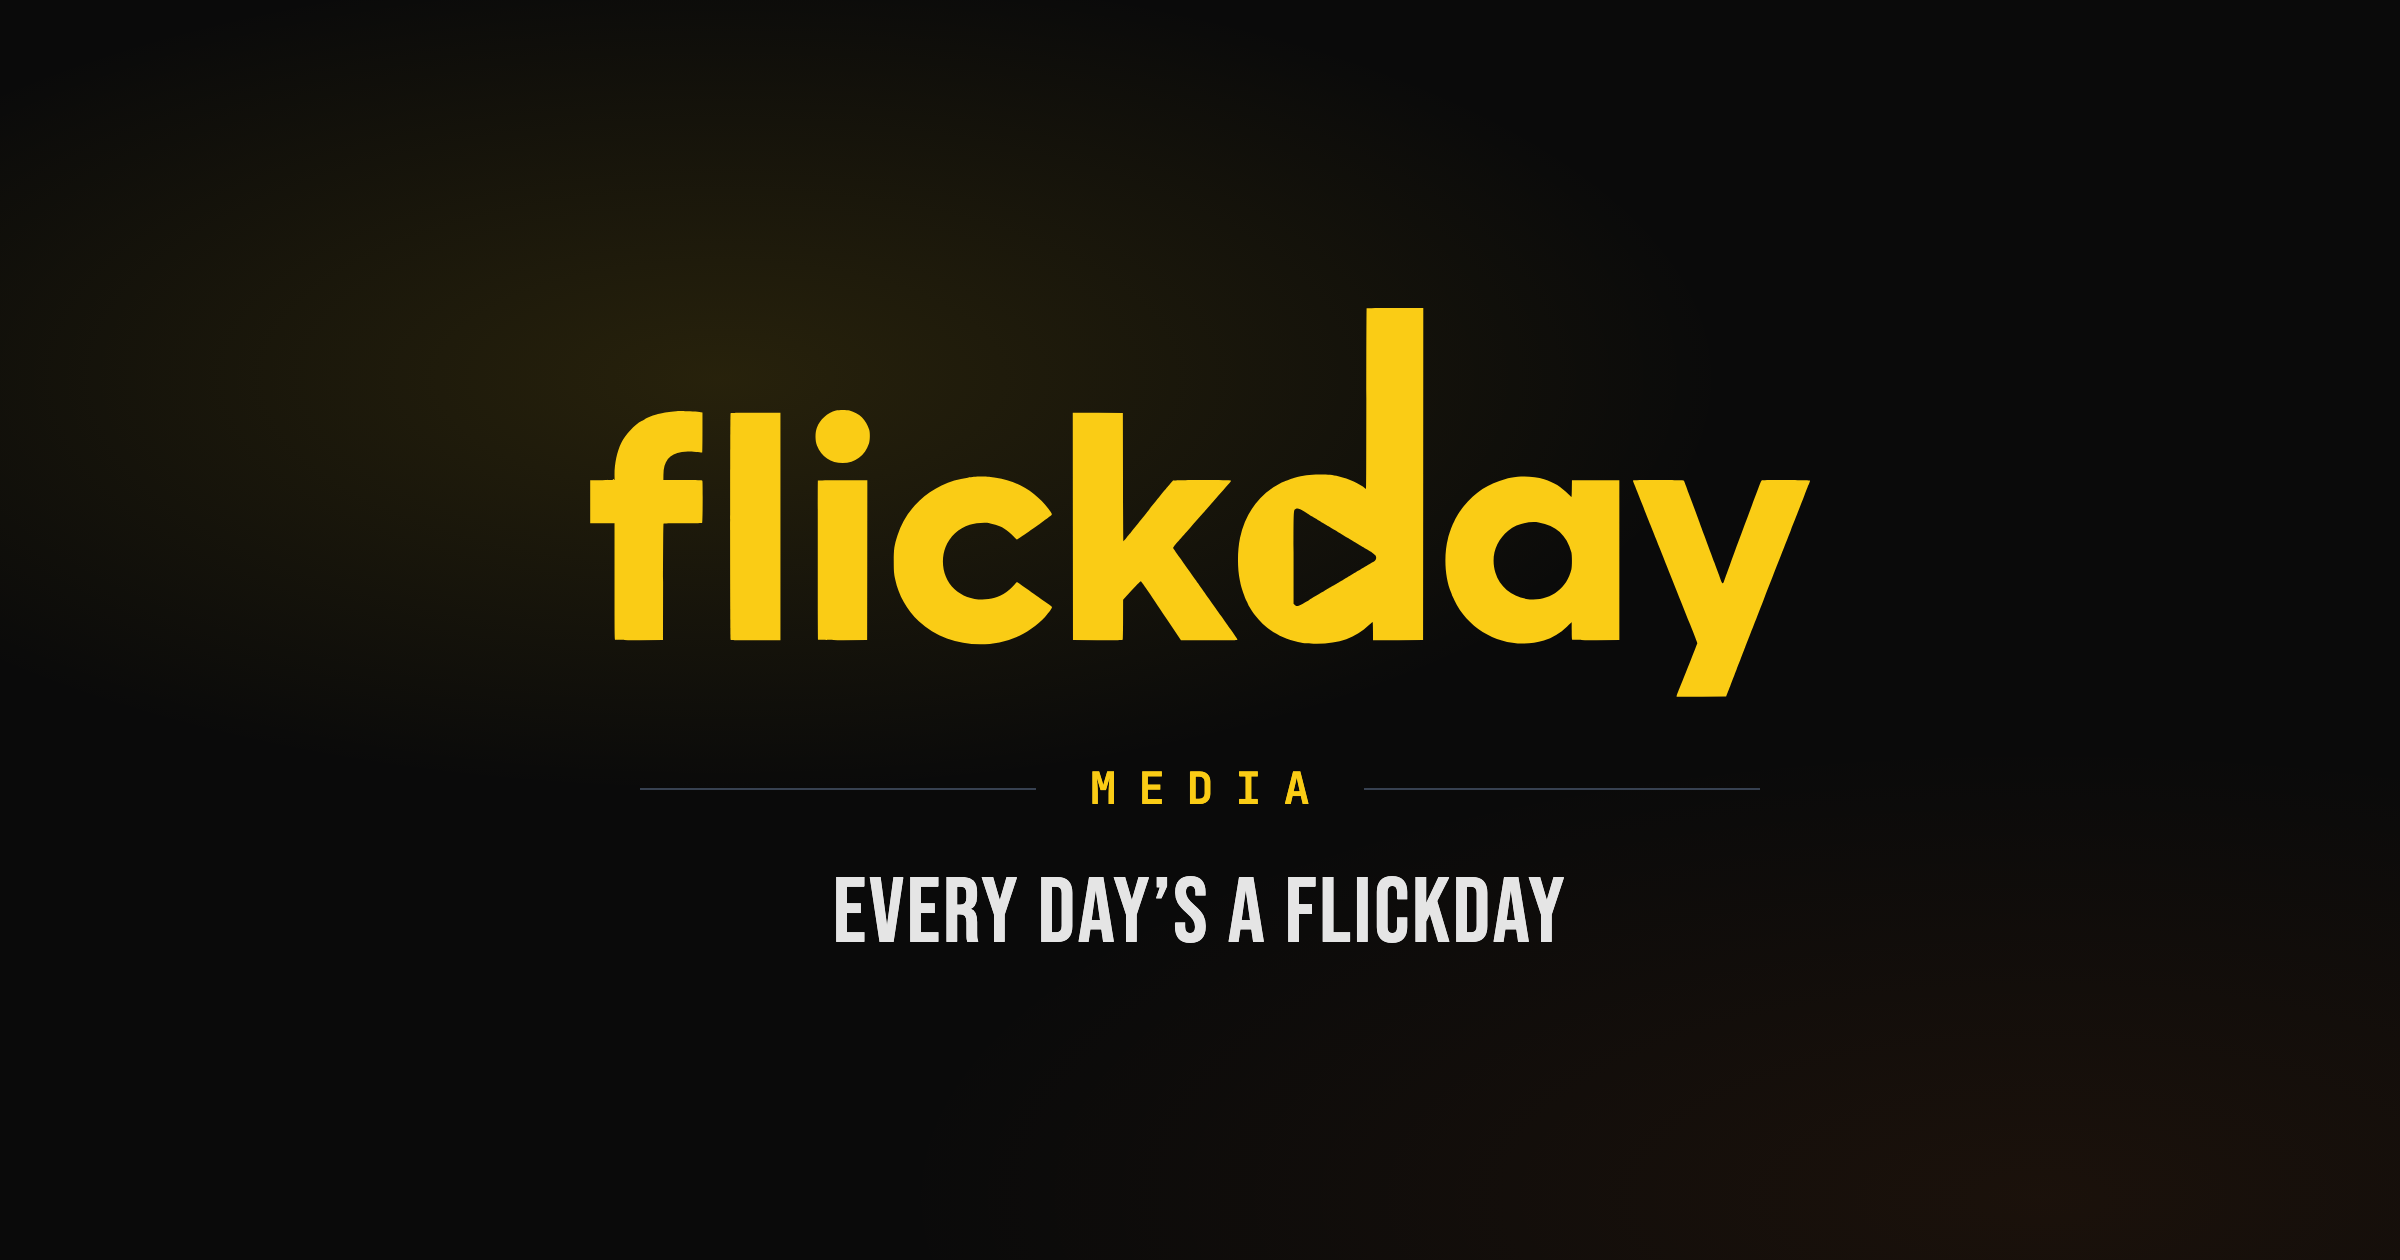
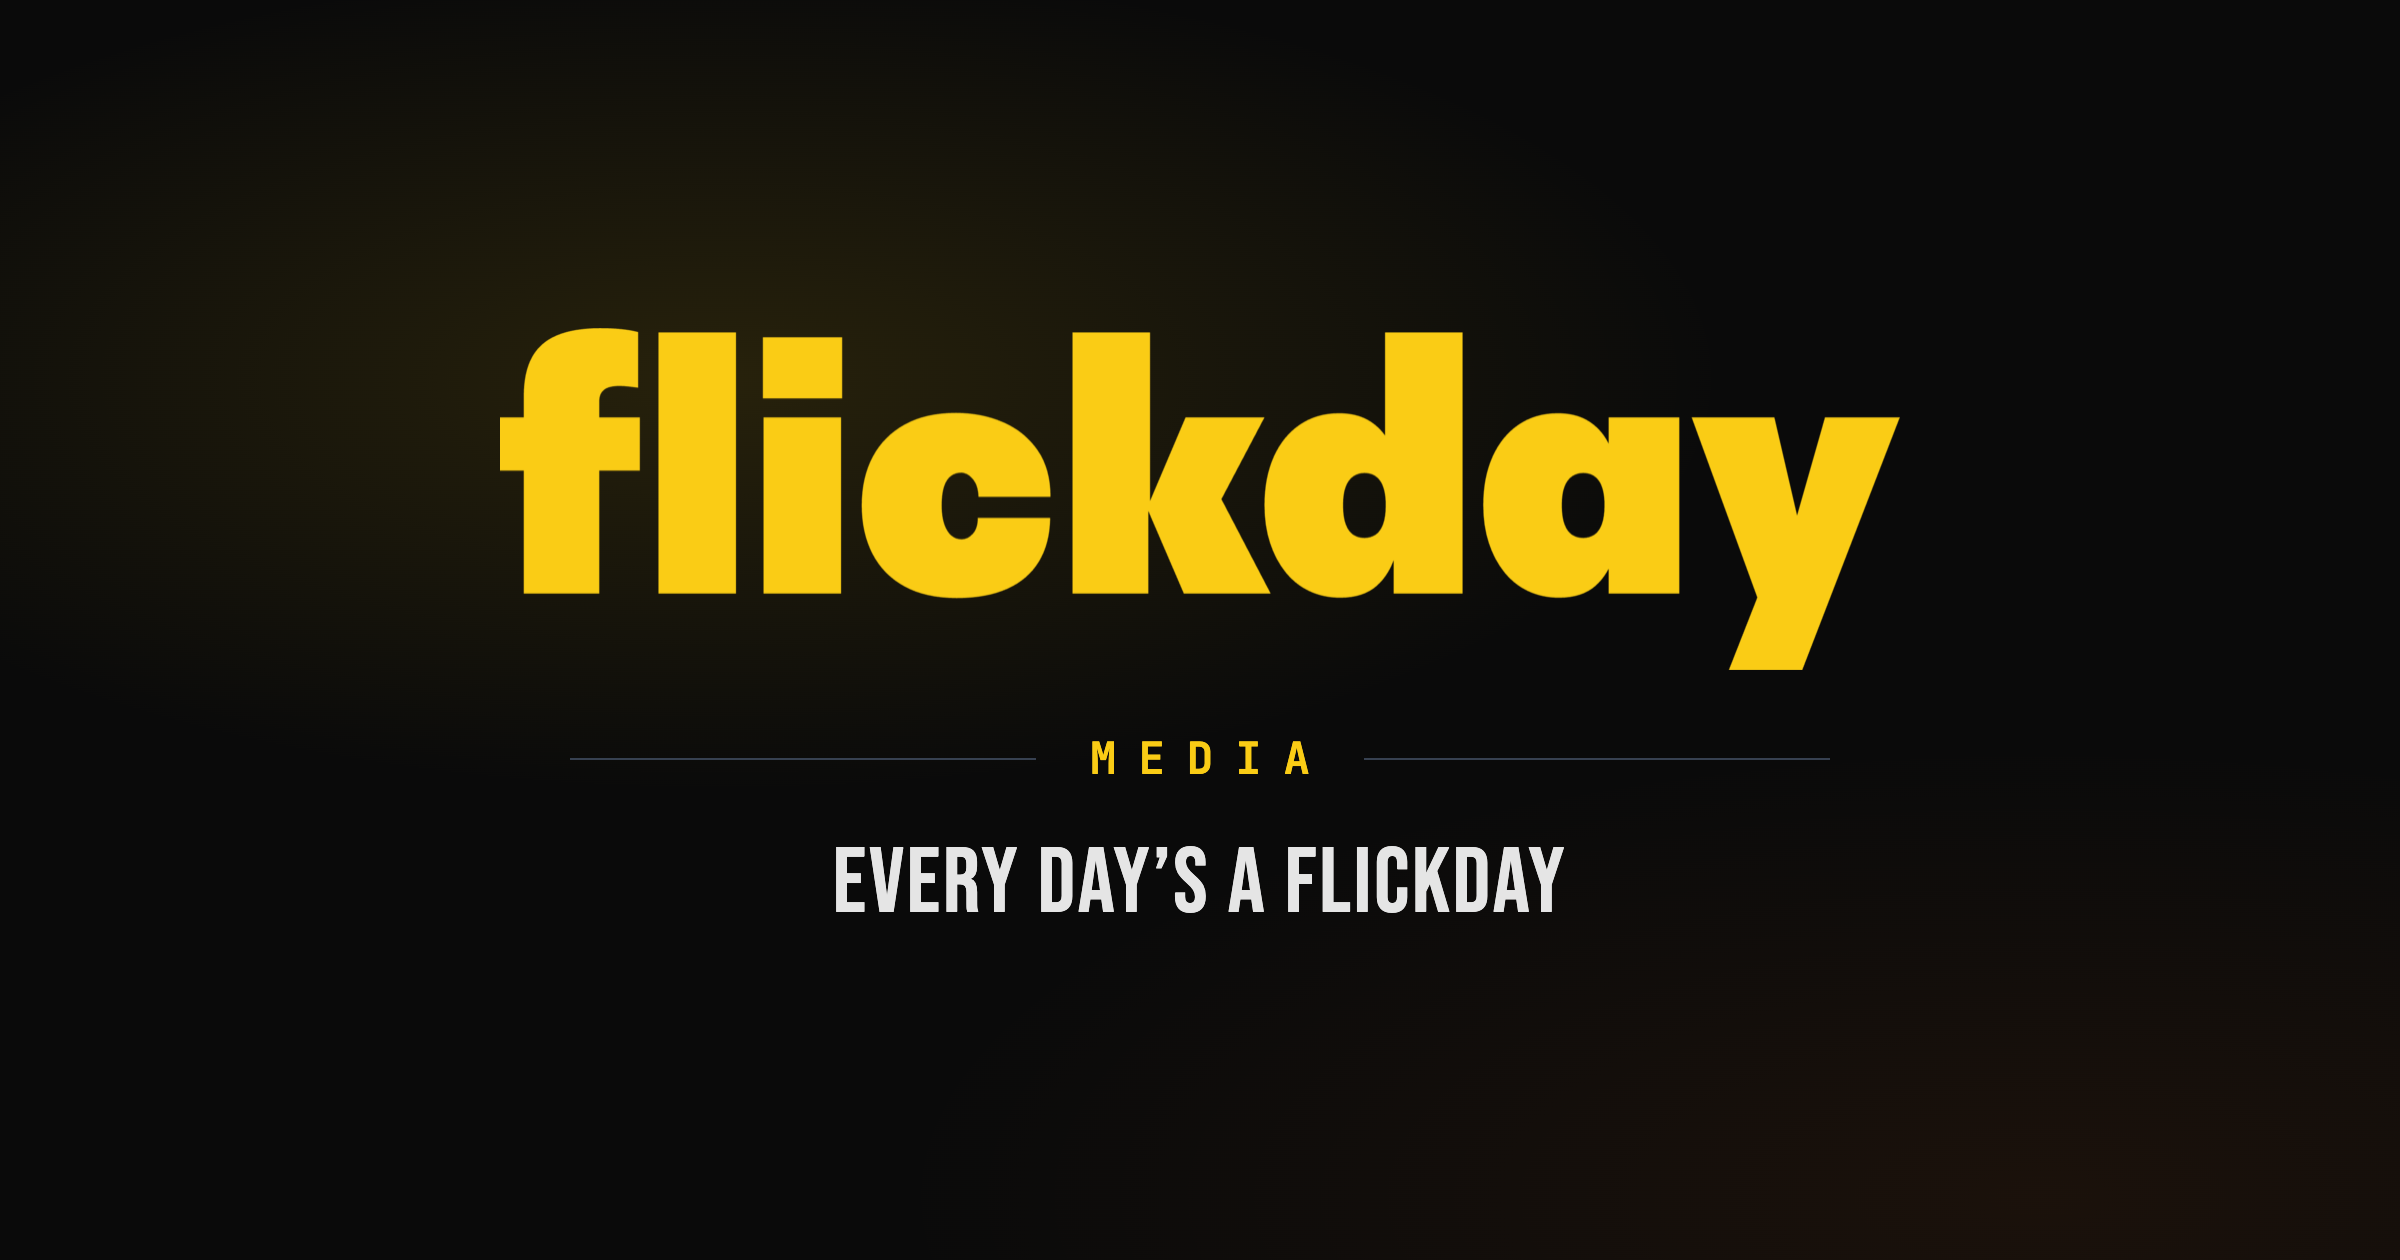
feat(site): Peridot wordmark on the share card
The og:image card still showed the traced play-d mark, which nino ruled out
on 2026-10-12: Peridot PE 950 is the wordmark and the play mark never sits
in the d. build-site-assets.mjs drew the card from flickday-assets/brand/
wordmark.svg, so replacing the PNG alone would have reverted on the next run.

- build-site-wordmark.mjs now owns the card along with the header and footer
  PNGs. It shares their render steps: the Adobe kit, the loaded-face check,
  the standard cut, and the trim to ink. It draws the mark at 1400 px for
  the 700 px card slot, so the 2x screenshot never upscales it. The check
  also covers the card's JetBrains Mono and Bebas Neue.
- Layout unchanged except size: mark 700 px wide (was 620), rule 0.9 of
  the mark (630, was 560), gap tightened 10 px to match the old card's
  descender-to-rule spacing. Peridot is about 4.1:1 against the traced
  mark's 2.7:1, so at 620 px the card read top-light, and 760 px crowded
  the tagline. Compared at full size and at 500 and 250 px.
- build-site-assets.mjs keeps favicons and the manifest only. Not rerun,
  so the favicon bytes are untouched.
- The magick step drops PNG date and tIME chunks, so a rebuild of an
  unchanged mark is byte-identical. The header and footer PNGs change
  bytes once for that; their pixels are identical (AE 0).
- og:image goes to ?v=4. Scrapers and Pages edges key the card by URL,
  and ?v=3 was requested from production before this deploy.
[…]

Changed region(s): [[0.1875, 0.2476, 0.8125, 0.5571], [0.3438, 0.5881, 0.6562, 0.7738]]

diff --git a/site/index.html b/site/index.html
@@ -14,7 +14,7 @@
   <meta property="og:description" content="Photos and reels from your volleyball tournament, within 24–48 hours. Chicago-based, travel available.">
   <meta property="og:type" content="website">
   <meta property="og:url" content="https://flickdaymedia.com">
-  <meta property="og:image" content="./flickday-assets/site/og-share-card.png?v=2">
+  <meta property="og:image" content="./flickday-assets/site/og-share-card.png?v=4">
   <meta property="og:image:width" content="1200">
   <meta property="og:image:height" content="630">
   <meta name="twitter:card" content="summary_large_image">
